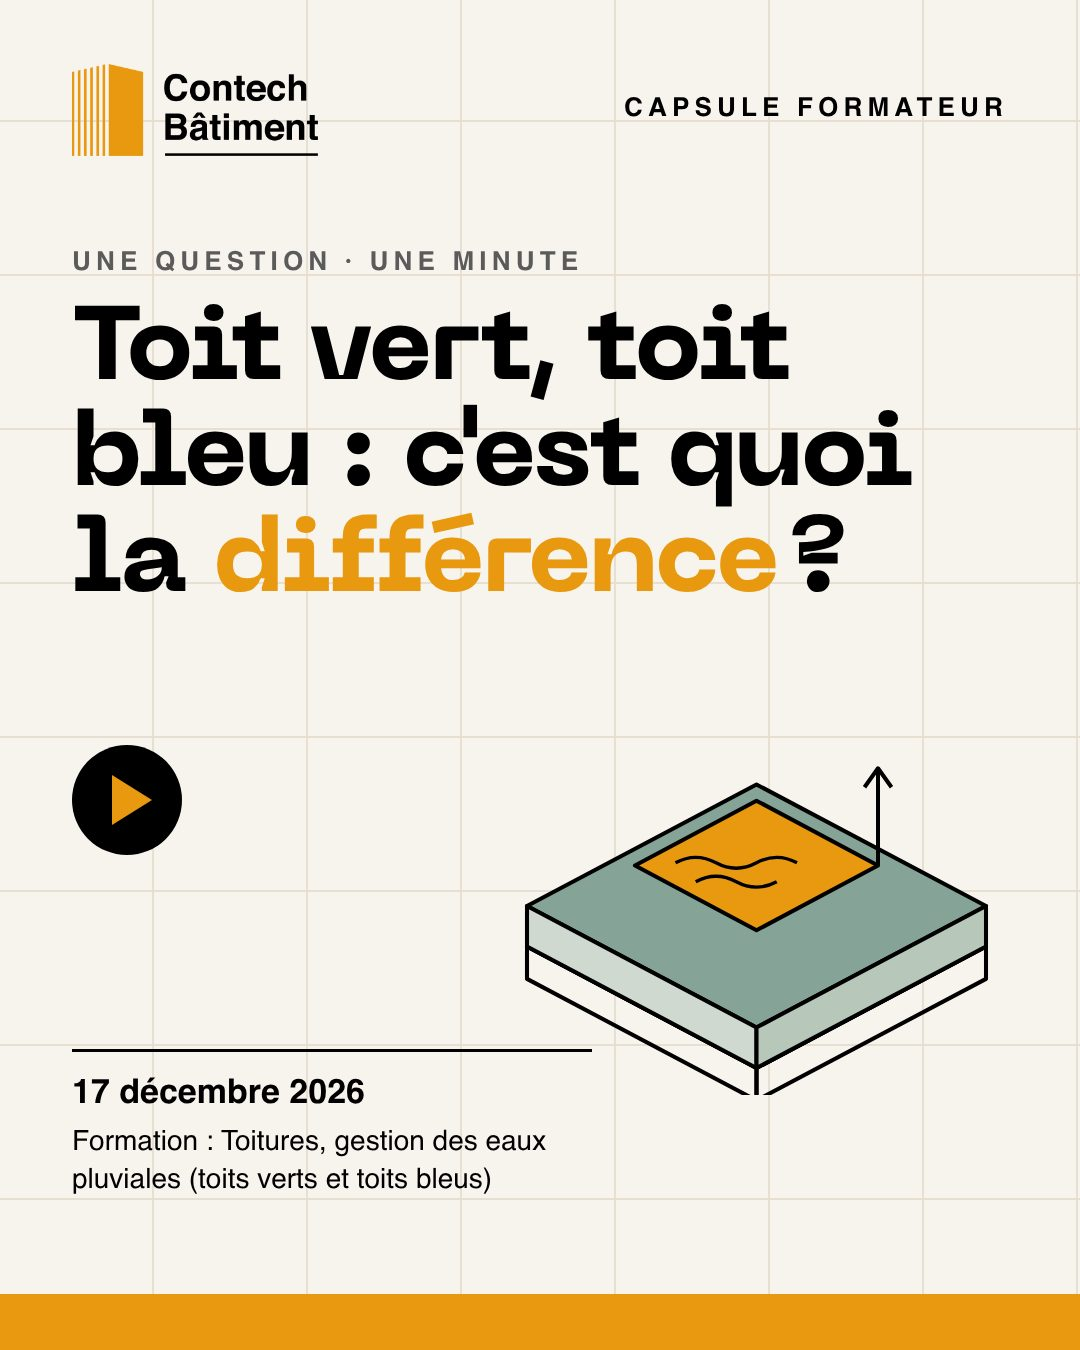
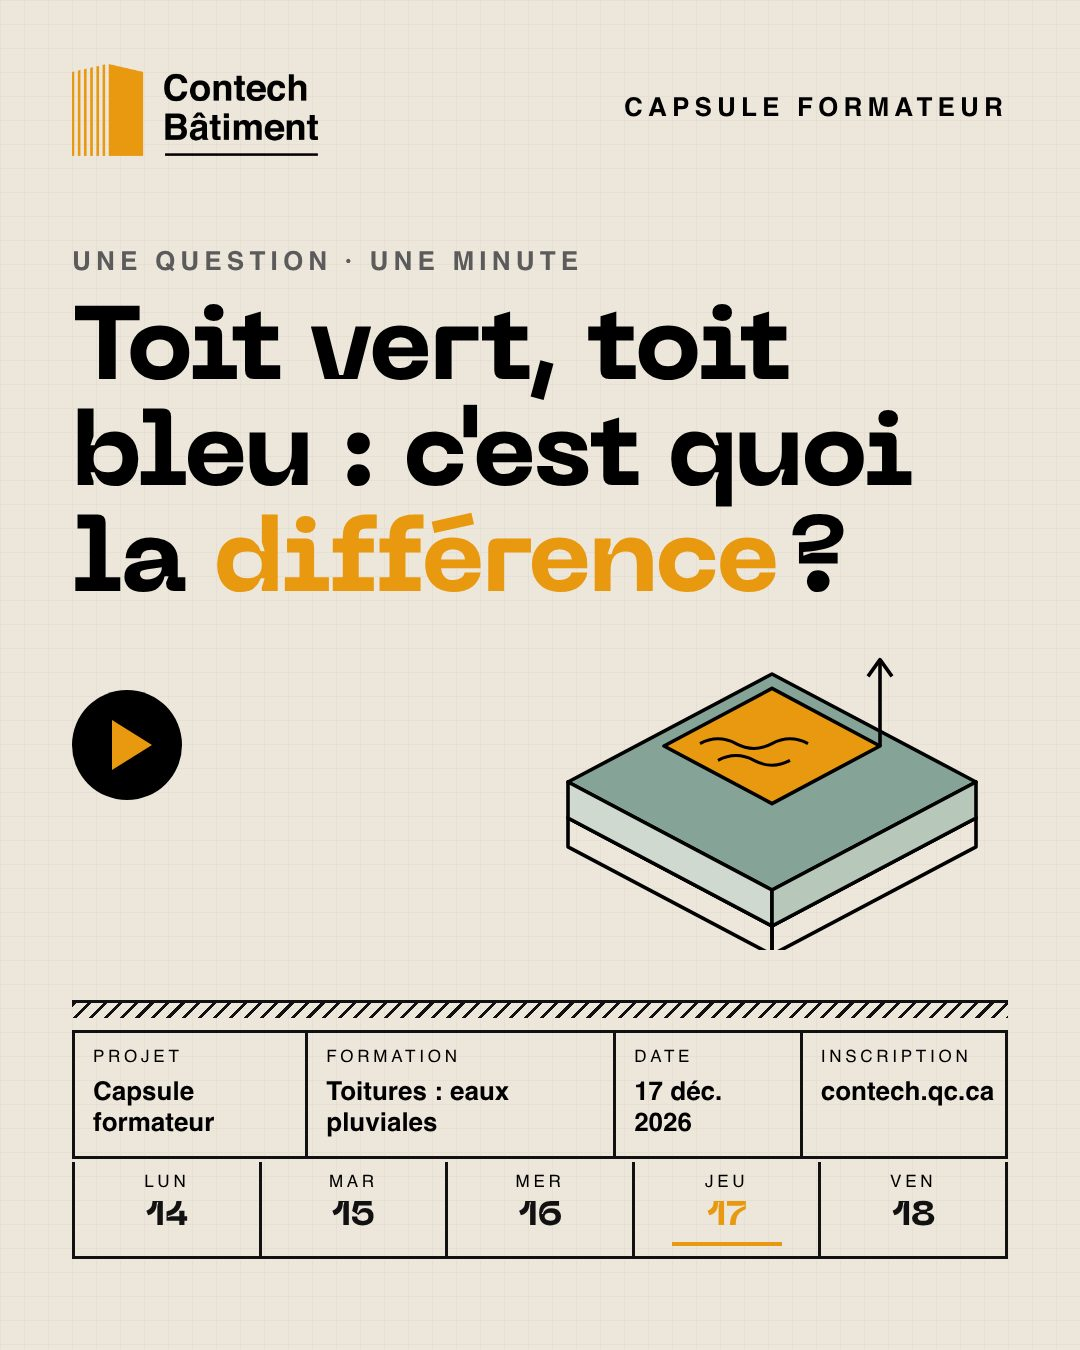
Kit : quadrillé identique au visuel Vendredi fou (papier, lignes, cases 24 px, cartouche et calendrier)

Changed region(s): [[0.0, 0.4667, 1.0, 1.0], [0.0611, 0.4978, 0.1833, 0.6533]]

diff --git a/bilan/index.html b/bilan/index.html
@@ -108,6 +108,7 @@ pre.code{background:#111;color:#F7F3ED;border-radius:6px;padding:16px 18px;overf
 .ver{border-left:4px solid var(--bleu);padding:4px 0 4px 16px}.ver .vn{font-family:'Contech Machina',sans-serif;font-weight:700;font-size:24px;line-height:1.1;margin:0 0 6px}.ver p{margin:0 0 6px}.ver a{font-size:12.5px;color:var(--marine)}
 .cibs{display:grid;gap:12px;grid-template-columns:repeat(auto-fit,minmax(min(100%,300px),1fr))}
 .cib{border:1px solid var(--ligne);border-radius:6px;padding:16px 18px}.cib h3{font-size:18px;margin:0 0 8px}.cib p{margin:0 0 6px;font-size:14.5px}
+.chip{display:inline-block;width:14px;height:14px;border-radius:3px;border:1px solid rgba(0,0,0,.15);vertical-align:-2px;margin-right:4px}
 </style></head><body>
 <div class="top"><img src="img/logo.png" alt="Contech Bâtiment" class="logo"><nav><a href="#resume" data-p="resume">Résumé</a><a href="#quebec" data-p="quebec">Québec</a><a href="#montreal" data-p="montreal">Montréal</a><a href="#actions" data-p="actions">Actions 2026</a><a href="#constats" data-p="constats">Bien / moins bien</a><a href="#formations" data-p="formations">Formations</a><a href="#recos" data-p="recos">Recos 2027</a><a href="#planif" data-p="planif">Planif 2027</a><a href="#croissance" data-p="croissance">Croissance 2027</a><a href="#marque" data-p="marque">Kit de marque</a></nav></div>
 <main><section id="resume" class="pg base has-hero"><header class="band" style="--hero:url(img/qc-plancher.jpg)"><p class="sur">Bilan marketing · Expos Contech 2026</p><h1 class="titre">Deux Expos <em>en hausse</em>, et une leçon claire pour 2027</h1></header>
@@ -212,14 +213,21 @@ pre.code{background:#111;color:#F7F3ED;border-radius:6px;padding:16px 18px;overf
 <div class="card wide"><h3>Couleurs</h3>
 <p class="k" style="margin:4px 0 8px">Communes</p><div class="sw2"><div><span style="background:#E8990F"></span><b>Contech Yellow</b><code>#E8990F</code><small>mot-clé, boutons, filets</small></div><div><span style="background:#000000"></span><b>Pure Black</b><code>#000000</code><small>titres et texte</small></div><div><span style="background:#F7F3ED"></span><b>Isabelline</b><code>#F7F3ED</code><small>fond crème</small></div></div>
 <p class="k" style="margin:18px 0 8px">Univers Expos</p><div class="sw2"><div><span style="background:#86B5C9"></span><b>Bleu Expo</b><code>#86B5C9</code><small>fond, photos en monochrome</small></div><div><span style="background:#5C698C"></span><b>Bleu nuit</b><code>#5C698C</code><small>titres sur bleu</small></div><div><span style="background:#B9314F"></span><b>Rose Red</b><code>#B9314F</code><small>accent : le bâtiment rouge</small></div></div>
-<p class="k" style="margin:18px 0 8px">Univers Formations</p><div class="sw2"><div><span style="background:#86A397"></span><b>Cambridge Blue</b><code>#86A397</code><small>illustrations</small></div><div><span style="background:#86B8CE"></span><b>Carolina Blue</b><code>#86B8CE</code><small>illustrations</small></div><div><span style="background:#E7DFD1"></span><b>Sable</b><code>#E7DFD1</code><small>le quadrillé, filets</small></div></div></div>
+<p class="k" style="margin:18px 0 8px">Univers Formations</p><div class="sw2"><div><span style="background:#86A397"></span><b>Cambridge Blue</b><code>#86A397</code><small>illustrations</small></div><div><span style="background:#86B8CE"></span><b>Carolina Blue</b><code>#86B8CE</code><small>illustrations</small></div><div><span style="background:#ECE6DB"></span><b>Papier</b><code>#ECE6DB</code><small>fond du quadrillé</small></div><div><span style="background:#E5DFD4"></span><b>Ligne</b><code>#E5DFD4</code><small>lignes du quadrillé</small></div></div></div>
 <div class="grid">
 <div class="card kit-expo"><p class="k">Expos · référence 2026</p><h3>Le bleu et le rouge</h3><p>Dégradé bleu, lueur orange, le bâtiment de la ville, titres en capitales. C'est la base à garder pour 2027.</p><div class="crea two"><figure><img src="img/rc-mtl-4x5.jpg" alt="Visuel Expo Montréal 2026, 4:5" loading="lazy"></figure><figure><img src="img/rc-mtl-banniere.jpg" alt="Bannière Expo Montréal 2026" loading="lazy"></figure></div></div>
-<div class="card kit-form"><p class="k">Formations · référence 2026</p><h3>Le crème et le cube</h3><p>Fond crème avec le quadrillé, titre complet de la formation en Neue Machina avec un mot-clé orange, illustration isométrique au trait du sujet, élément clé en orange, bande orange en bas.</p><div class="crea two"><figure><img src="img/kit/ref-post-formation.jpg" alt="Publication Dommages structuraux" loading="lazy"><figcaption>Publication du 13 novembre</figcaption></figure></div><svg viewBox="0 0 120 120" width="90" height="90" aria-hidden="true" style="margin-top:10px"><polygon points="60,10 104,35 60,60 16,35" fill="#E8990F"/><polygon points="16,35 60,60 60,110 16,85" fill="none" stroke="#000" stroke-width="2"/><polygon points="104,35 60,60 60,110 104,85" fill="none" stroke="#000" stroke-width="2"/></svg></div>
+<div class="card kit-form"><p class="k">Formations · référence 2026</p><h3>Le crème et le cube</h3><p>Fond papier quadrillé, titre complet de la formation en Neue Machina avec un mot-clé orange, illustration isométrique au trait du sujet, élément clé en orange, bande orange en bas.</p><div class="crea two"><figure><img src="img/kit/ref-post-formation.jpg" alt="Publication Dommages structuraux" loading="lazy"><figcaption>Publication du 13 novembre</figcaption></figure></div><svg viewBox="0 0 120 120" width="90" height="90" aria-hidden="true" style="margin-top:10px"><polygon points="60,10 104,35 60,60 16,35" fill="#E8990F"/><polygon points="16,35 60,60 60,110 16,85" fill="none" stroke="#000" stroke-width="2"/><polygon points="104,35 60,60 60,110 104,85" fill="none" stroke="#000" stroke-width="2"/></svg></div>
 </div>
-<div class="card wide"><h3>Le quadrillé</h3><div class="quad-wrap"><div class="quad"><p class="sur2">Formation en ligne</p><p class="qt">Gestion de la <em>maintenance</em></p><span class="qnote">1 case = 1 jour du calendrier</span></div>
-<div><p>Le quadrillé est une grille pâle, comme un calendrier, posée sur le fond crème. Il rappelle que les formations ont lieu à une date précise. Il est réservé à l'univers Formations : publications, en-têtes d'infolettre, PPT de salle et fiches de la boutique.</p>
-<ul class="chk"><li><b>Trait :</b> #E7DFD1 (sable), 2 px en 1080 px, 1 px en infolettre.</li><li><b>Case :</b> 154 px sur un visuel de 1080 px (7 cases, comme une semaine), 75 px dans une infolettre de 600 px.</li><li><b>Alignement :</b> la grille part de la marge de 72 px, pour que le titre et le logo tombent sur une ligne.</li><li><b>Jamais</b> derrière une photo, une personne ou un logo partenaire, et jamais sur les visuels Expo.</li><li><b>Toujours discret :</b> on doit le sentir, pas le lire. Si on le remarque avant le titre, il est trop foncé.</li></ul></div></div></div>
+<div class="card wide"><h3>Le quadrillé</h3><div class="nl"><figure><img src="img/kit/ref-quadrille-alexane.jpg" alt="Visuel Vendredi fou 2026 d'Alexane, la référence du quadrillé"><figcaption>Vendredi fou 2026, par Alexane : la référence</figcaption></figure>
+<div><p>Le quadrillé, c'est du papier millimétré d'architecte : une grille fine et régulière sur un fond papier. Avec lui viennent les codes d'un plan (cartouche, cotes, ligne de sol) et une rangée de calendrier. Il est réservé à l'univers Formations et aux promotions de la boutique.</p>
+<ul class="chk"><li><b>Fond papier :</b> <span class="chip" style="background:#ECE6DB"></span> #ECE6DB.</li>
+<li><b>Lignes :</b> <span class="chip" style="background:#E5DFD4"></span> #E5DFD4, 1 px, sans ligne plus foncée.</li>
+<li><b>Case :</b> 24 px sur un visuel de 1080 px (45 cases de large), toujours carrée. Sur une infolettre de 600 px : 13 px.</li>
+<li><b>Cartouche de plan</b> en bas : filets noirs de 2 px, cases PROJET · ÉCHELLE · DATES · INSCRIPTION en petites capitales Helvetica espacées, valeurs en Helvetica Bold.</li>
+<li><b>Rangée calendrier</b> sous le cartouche : jours en capitales (VEN, SAM…), dates en Neue Machina, jours clés en orange soulignés d'un trait orange.</li>
+<li><b>Ligne de sol hachurée</b> au-dessus du cartouche, et <b>cotes</b> (lignes de dimension noires avec étiquettes) autour de l'illustration.</li>
+<li><b>Jamais</b> derrière une photo, une personne ou un logo partenaire, ni sur les visuels Expo.</li></ul></div></div>
+<p class="note">Vérifié sur l'infolettre Hebdo Formations du 11 novembre : elle n'a pas encore le quadrillé. Son fond est le crème uni #F7F3ED. À intégrer à la prochaine infolettre Formations pour que tout soit identique.</p></div>
 <div class="grid">
 <div class="card"><h3>Iconographie</h3><p>Une seule illustration par visuel, isométrique au trait, qui raconte le sujet de la formation sans mots. Les illustrations 2026 en sont la référence.</p>
 <ul class="chk"><li><b>Trait noir</b> régulier (3 px en 1080), coins arrondis.</li><li><b>Remplissages :</b> crème, sable, gris pâle, bois ou vert sauge selon le matériau.</li><li><b>Un seul élément clé en orange</b> #E8990F : la fissure, la clé, l'onde sonore, la couche d'eau.</li><li><b>Exact sur le plan technique :</b> tiré du plan de cours, vérifiable par un architecte ou un ingénieur.</li><li><b>Pas d'icônes génériques</b> ni d'images de banque.</li></ul></div>
@@ -238,18 +246,19 @@ pre.code{background:#111;color:#F7F3ED;border-radius:6px;padding:16px 18px;overf
   --contech-jaune-texte: #B26E08; /* orange lisible sur crème */
   --contech-noir: #111111;
   --contech-creme: #F7F3ED;   /* fond */
-  --contech-sable: #E7DFD1;   /* quadrillé, filets */
+  --contech-papier: #ECE6DB;  /* fond quadrillé */
+  --contech-ligne: #E5DFD4;   /* lignes du quadrillé */
   --contech-bleu-expo: #86B5C9;
   --titre: &quot;PP Neue Machina Inktrap&quot;, Helvetica, Arial, sans-serif;
   --texte: &quot;Helvetica Neue&quot;, Helvetica, Arial, sans-serif;
 }
-.quadrille { background-color: var(--contech-creme);
-  background-image: linear-gradient(var(--contech-sable) 1px, transparent 1px),
-                    linear-gradient(90deg, var(--contech-sable) 1px, transparent 1px);
-  background-size: 64px 64px; }
+.quadrille { background-color: var(--contech-papier);
+  background-image: linear-gradient(var(--contech-ligne) 1px, transparent 1px),
+                    linear-gradient(90deg, var(--contech-ligne) 1px, transparent 1px);
+  background-size: 24px 24px; }
 .bouton { background: var(--contech-jaune); color: var(--contech-noir);
   font: 700 15px/1 var(--texte); padding: 14px 30px; border-radius: 6px; }</pre>
-<ul class="chk"><li><b>Fiche de formation :</b> le visuel 4:5 de la formation, le titre complet, la date et les UEC en surtitre orange foncé, le bouton « Je m'inscris ».</li><li><b>Page d'accueil :</b> en-tête crème quadrillé, prochaines formations en cartes, bloc Expo dans l'univers bleu.</li></ul></div>
+<ul class="chk"><li><b>Fiche de formation :</b> le visuel 4:5 de la formation, le titre complet, la date et les UEC en surtitre orange foncé, le bouton « Je m'inscris ».</li><li><b>Page d'accueil :</b> en-tête sur papier quadrillé, prochaines formations en cartes, bloc Expo dans l'univers bleu.</li></ul></div>
 <div class="card wide"><h3>Nouveaux créatifs proposés pour 2027</h3><p class="note" style="margin:0 0 14px">Faits avec les polices officielles et de vraies photos de l'Expo. À valider avant toute publication.</p>
 <div class="crea"><figure><img src="img/kit/e-merci.jpg" alt="Merci Montréal" loading="lazy"><figcaption><b>Merci, Montréal</b> · variante avec les chiffres finaux (un premier remerciement est déjà en ligne)</figcaption></figure>
 <figure><img src="img/kit/e-temoin.jpg" alt="Gabarit témoignage" loading="lazy"><figcaption><b>Gabarit témoignage</b> · story 9:16, kit crème</figcaption></figure>
